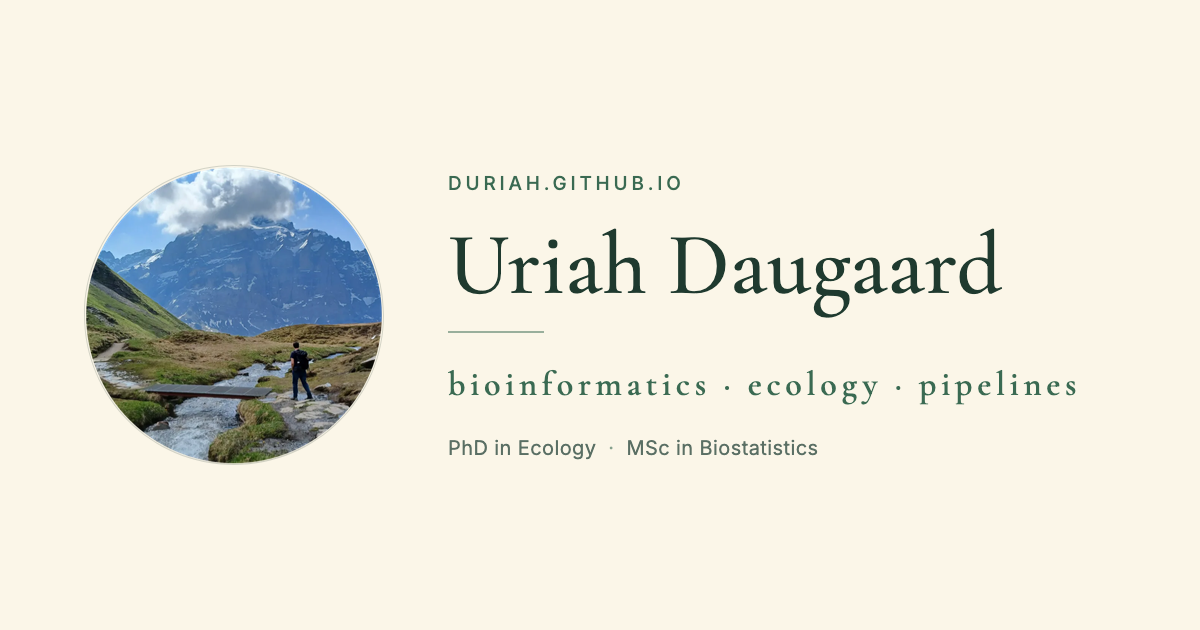
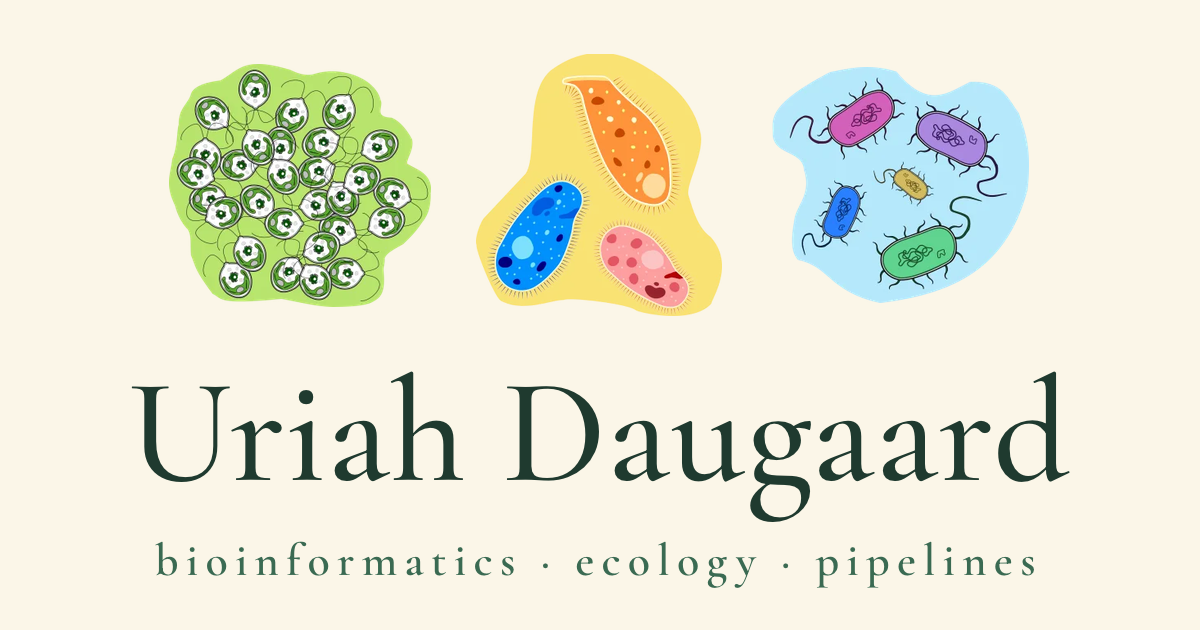
Make the social card a cut of the home page hero
Replaces the separately drawn card. It was never reproducible — there was no
source file for it, which is why the affiliation baked into its third line had
to be erased pixel by pixel. A cut of the hero cannot drift from the site, and
carries no text the page does not already carry.

It stops at the script line rather than reproducing the whole hero. Feeds render
a 1200x630 card at roughly 360-550px wide, and at that size the degrees line and
the tagline are an unreadable smudge; the drawings, the name and
"bioinformatics · ecology · pipelines" all hold up.

tools/make_og_card.py regenerates it, alongside make_poster_thumbs.py. The hero's
type is set in fixed px, so at a 1200px viewport it fills too little of a
1200px-wide card; the script renders the page zoomed and cuts a 1200x630 window
out of that, which draws the same content larger and at native resolution with
no upscaling in the path. It finds the crop by measuring the inked bands rather
than hard-coding offsets, and fails loudly if the layout stops matching.

diff --git a/tools/make_og_card.py b/tools/make_og_card.py
@@ -1,0 +1,193 @@
+#!/usr/bin/env python3
+"""Rebuild assets/img/og-card.png from the home page's own hero block.
+
+The card is cut from the page rather than drawn separately, so it cannot drift
+from the site: change the hero and re-run this. That was the problem with the
+hand-made card it replaces, which carried an affiliation nobody could edit
+because there was no source file for it.
+
+Two decisions are worth knowing:
+
+*It stops at the script line.* The card carries the drawings, the name and
+"bioinformatics · ecology · pipelines" — not the degrees line or the tagline
+underneath. Feeds render a 1200x630 card at roughly 360-550px wide, and at that
+size those two are an unreadable smudge; the crop is chosen to exclude them.
+
+*It renders zoomed, then crops without resampling.* The hero's type is set in
+fixed px, so at a 1200px viewport it occupies too little of a 1200px-wide card.
+Rendering at ZOOM and cutting a 1200x630 window out of that draws the same
+content larger *and* at native resolution — no upscaling anywhere in the path.
+
+Firefox is used headless because it is the browser that is installed. The copy it
+renders has `loading="lazy"` stripped, because the screenshot does not wait for
+the two lazily-loaded drawings in the hero, and the site bar removed. Neither
+touches docs/ itself.
+
+Run after `quarto render`, then render again so docs/ picks the new card up:
+
+    python3 tools/make_og_card.py
+"""
+import re
+import shutil
+import subprocess
+import sys
+import tempfile
+from pathlib import Path
+
+from PIL import Image
+
+REPO = Path(__file__).resolve().parent.parent
+FIREFOX = Path("/Applications/Firefox.app/Contents/MacOS/firefox")
+SOURCE_PAGE = REPO / "docs" / "index.html"
+OUT_PATH = REPO / "assets" / "img" / "og-card.png"
+
+CARD_WIDTH = 1200
+CARD_HEIGHT = 630
+# Chosen so the hero is wide enough to carry the card without overflowing it;
+# the assertions below fail loudly if a design change breaks that.
+ZOOM = 1.7
+CAPTURE_WIDTH = 2100
+CAPTURE_HEIGHT = 1400
+# The drawings, the name, and the script line.
+HERO_BAND_COUNT = 3
+# Keeps the degrees line from creeping into the bottom edge of the crop.
+CLEARANCE = 5
+
+
+def buildCaptureCopy(workDir):
+    """Write an eager-loading, bar-less, zoomed copy of the home page into workDir.
+
+    Assets are symlinked rather than copied so the page's relative hrefs resolve
+    and nothing is duplicated.
+    """
+    for name in ("assets", "site", "site_libs"):
+        (workDir / name).symlink_to(REPO / "docs" / name)
+
+    html = SOURCE_PAGE.read_text()
+    html = html.replace(' loading="lazy"', "").replace(' decoding="async"', "")
+    html, barCount = re.subn(
+        r'<a class="skip".*?</a>\s*<header class="site-bar">.*?</header>',
+        "",
+        html,
+        flags=re.S,
+    )
+    if barCount != 1:
+        raise ValueError(f"expected exactly one site bar to strip, found {barCount}")
+    html, headCount = re.subn(
+        r"</head>", f"<style>html{{zoom:{ZOOM}}}</style></head>", html, count=1
+    )
+    if headCount != 1:
+        raise ValueError("no </head> to inject the zoom rule into")
+
+    page = workDir / "index.html"
+    page.write_text(html)
+    return page
+
+
+def capturePage(page, shotPath, profileDir):
+    """Screenshot page with a throwaway profile.
+
+    The separate profile is required: Firefox refuses a second instance against
+    the one the user already has open.
+    """
+    profileDir.mkdir()
+    subprocess.run(
+        [
+            str(FIREFOX), "--headless", "--no-remote",
+            "--profile", str(profileDir),
+            "--screenshot", str(shotPath),
+            "--window-size", f"{CAPTURE_WIDTH},{CAPTURE_HEIGHT}",
+            page.as_uri(),
+        ],
+        check=True,
+        env={"MOZ_NO_REMOTE": "1", "HOME": str(profileDir.parent), "PATH": "/usr/bin:/bin"},
+    )
+    if not shotPath.exists():
+        raise RuntimeError(f"firefox exited cleanly but wrote no screenshot to {shotPath}")
+
+
+def findInkedBands(im):
+    """Return [(top, bottom), ...] for each run of rows carrying non-background pixels.
+
+    Measured rather than hard-coded so the crop survives a change of type size.
+    """
+    px = im.load()
+    width, height = im.size
+    background = px[3, 3]
+    bands, start = [], None
+    for y in range(height):
+        hasInk = any(px[x, y] != background for x in range(width))
+        if hasInk and start is None:
+            start = y
+        elif not hasInk and start is not None:
+            bands.append((start, y - 1))
+            start = None
+    if start is not None:
+        bands.append((start, height - 1))
+    return bands
+
+
+def heroWindow(im, bands):
+    """Return the (left, top) of the 1200x630 window to cut around the hero.
+
+    Vertically the window is centred on the hero and then pushed up if that would
+    let the degrees line below it into frame. Horizontally it is centred on the
+    hero's own inked extent, which is not the centre of the viewport once the
+    page is zoomed.
+    """
+    if len(bands) <= HERO_BAND_COUNT:
+        raise ValueError(
+            f"found {len(bands)} inked bands, need more than {HERO_BAND_COUNT}; "
+            "the home page layout has changed"
+        )
+    hero, nextBand = bands[:HERO_BAND_COUNT], bands[HERO_BAND_COUNT]
+    top, bottom = hero[0][0], hero[-1][1]
+    if bottom - top + 1 > CARD_HEIGHT:
+        raise ValueError(f"hero is {bottom - top + 1}px tall at zoom {ZOOM}, taller than the card")
+
+    centredBottom = bottom + (CARD_HEIGHT - (bottom - top + 1)) // 2
+    windowBottom = min(centredBottom, nextBand[0] - CLEARANCE)
+    windowTop = windowBottom - CARD_HEIGHT
+    if windowTop > top:
+        raise ValueError("cannot fit the hero above the degrees line; adjust ZOOM")
+
+    px = im.load()
+    background = px[3, 3]
+    inkedX = [
+        x for x in range(im.size[0])
+        for bandTop, bandBottom in hero
+        if any(px[x, y] != background for y in range(bandTop, bandBottom + 1))
+    ]
+    windowLeft = (min(inkedX) + max(inkedX)) // 2 - CARD_WIDTH // 2
+    if max(inkedX) - min(inkedX) + 1 > CARD_WIDTH:
+        raise ValueError(f"hero is {max(inkedX) - min(inkedX) + 1}px wide, wider than the card")
+    if windowLeft < 0 or windowLeft + CARD_WIDTH > im.size[0] or windowTop < 0:
+        raise ValueError("the card window falls outside the capture; widen CAPTURE_WIDTH/HEIGHT")
+    return windowLeft, windowTop
+
+
+def main():
+    if not FIREFOX.exists():
+        raise SystemExit(f"{FIREFOX} not found; this script needs Firefox to render the page")
+    if not SOURCE_PAGE.exists():
+        raise SystemExit(f"{SOURCE_PAGE} not found; run `quarto render` first")
+
+    tempRoot = Path(tempfile.mkdtemp(prefix="og-card-"))
+    try:
+        workDir = tempRoot / "site"
+        workDir.mkdir()
+        page = buildCaptureCopy(workDir)
+        shotPath = tempRoot / "hero.png"
+        capturePage(page, shotPath, tempRoot / "profile")
+
+        with Image.open(shotPath) as shot:
+            shot = shot.convert("RGB")
+            left, top = heroWindow(shot, findInkedBands(shot))
+            shot.crop((left, top, left + CARD_WIDTH, top + CARD_HEIGHT)).save(OUT_PATH)
+        print(f"{OUT_PATH.relative_to(REPO)}: cut at ({left}, {top}) -> {CARD_WIDTH}x{CARD_HEIGHT}")
+    finally:
+        shutil.rmtree(tempRoot)
+
+
+if __name__ == "__main__":
+    sys.exit(main())
